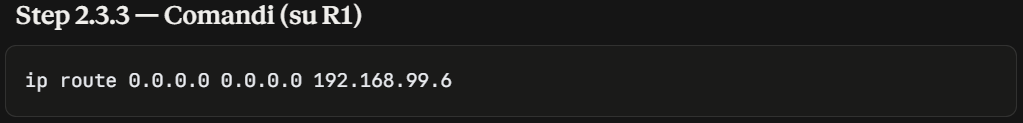
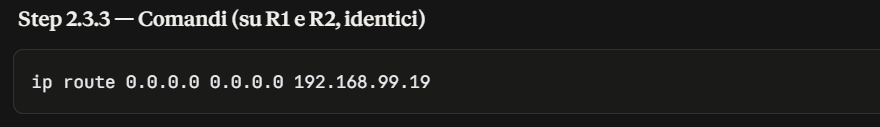
[FIX] step 2.3, stato in progress step 2.4

diff --git a/index.html b/index.html
@@ -2884,7 +2884,7 @@
               </div>
             </div>
           </details>
-          <details class="obj-item status-done">
+          <details class="obj-item status-inprogress">
             <summary>
               <span class="obj-text">2.4 — Collegamento punto-punto R1↔R2</span>
             </summary>
